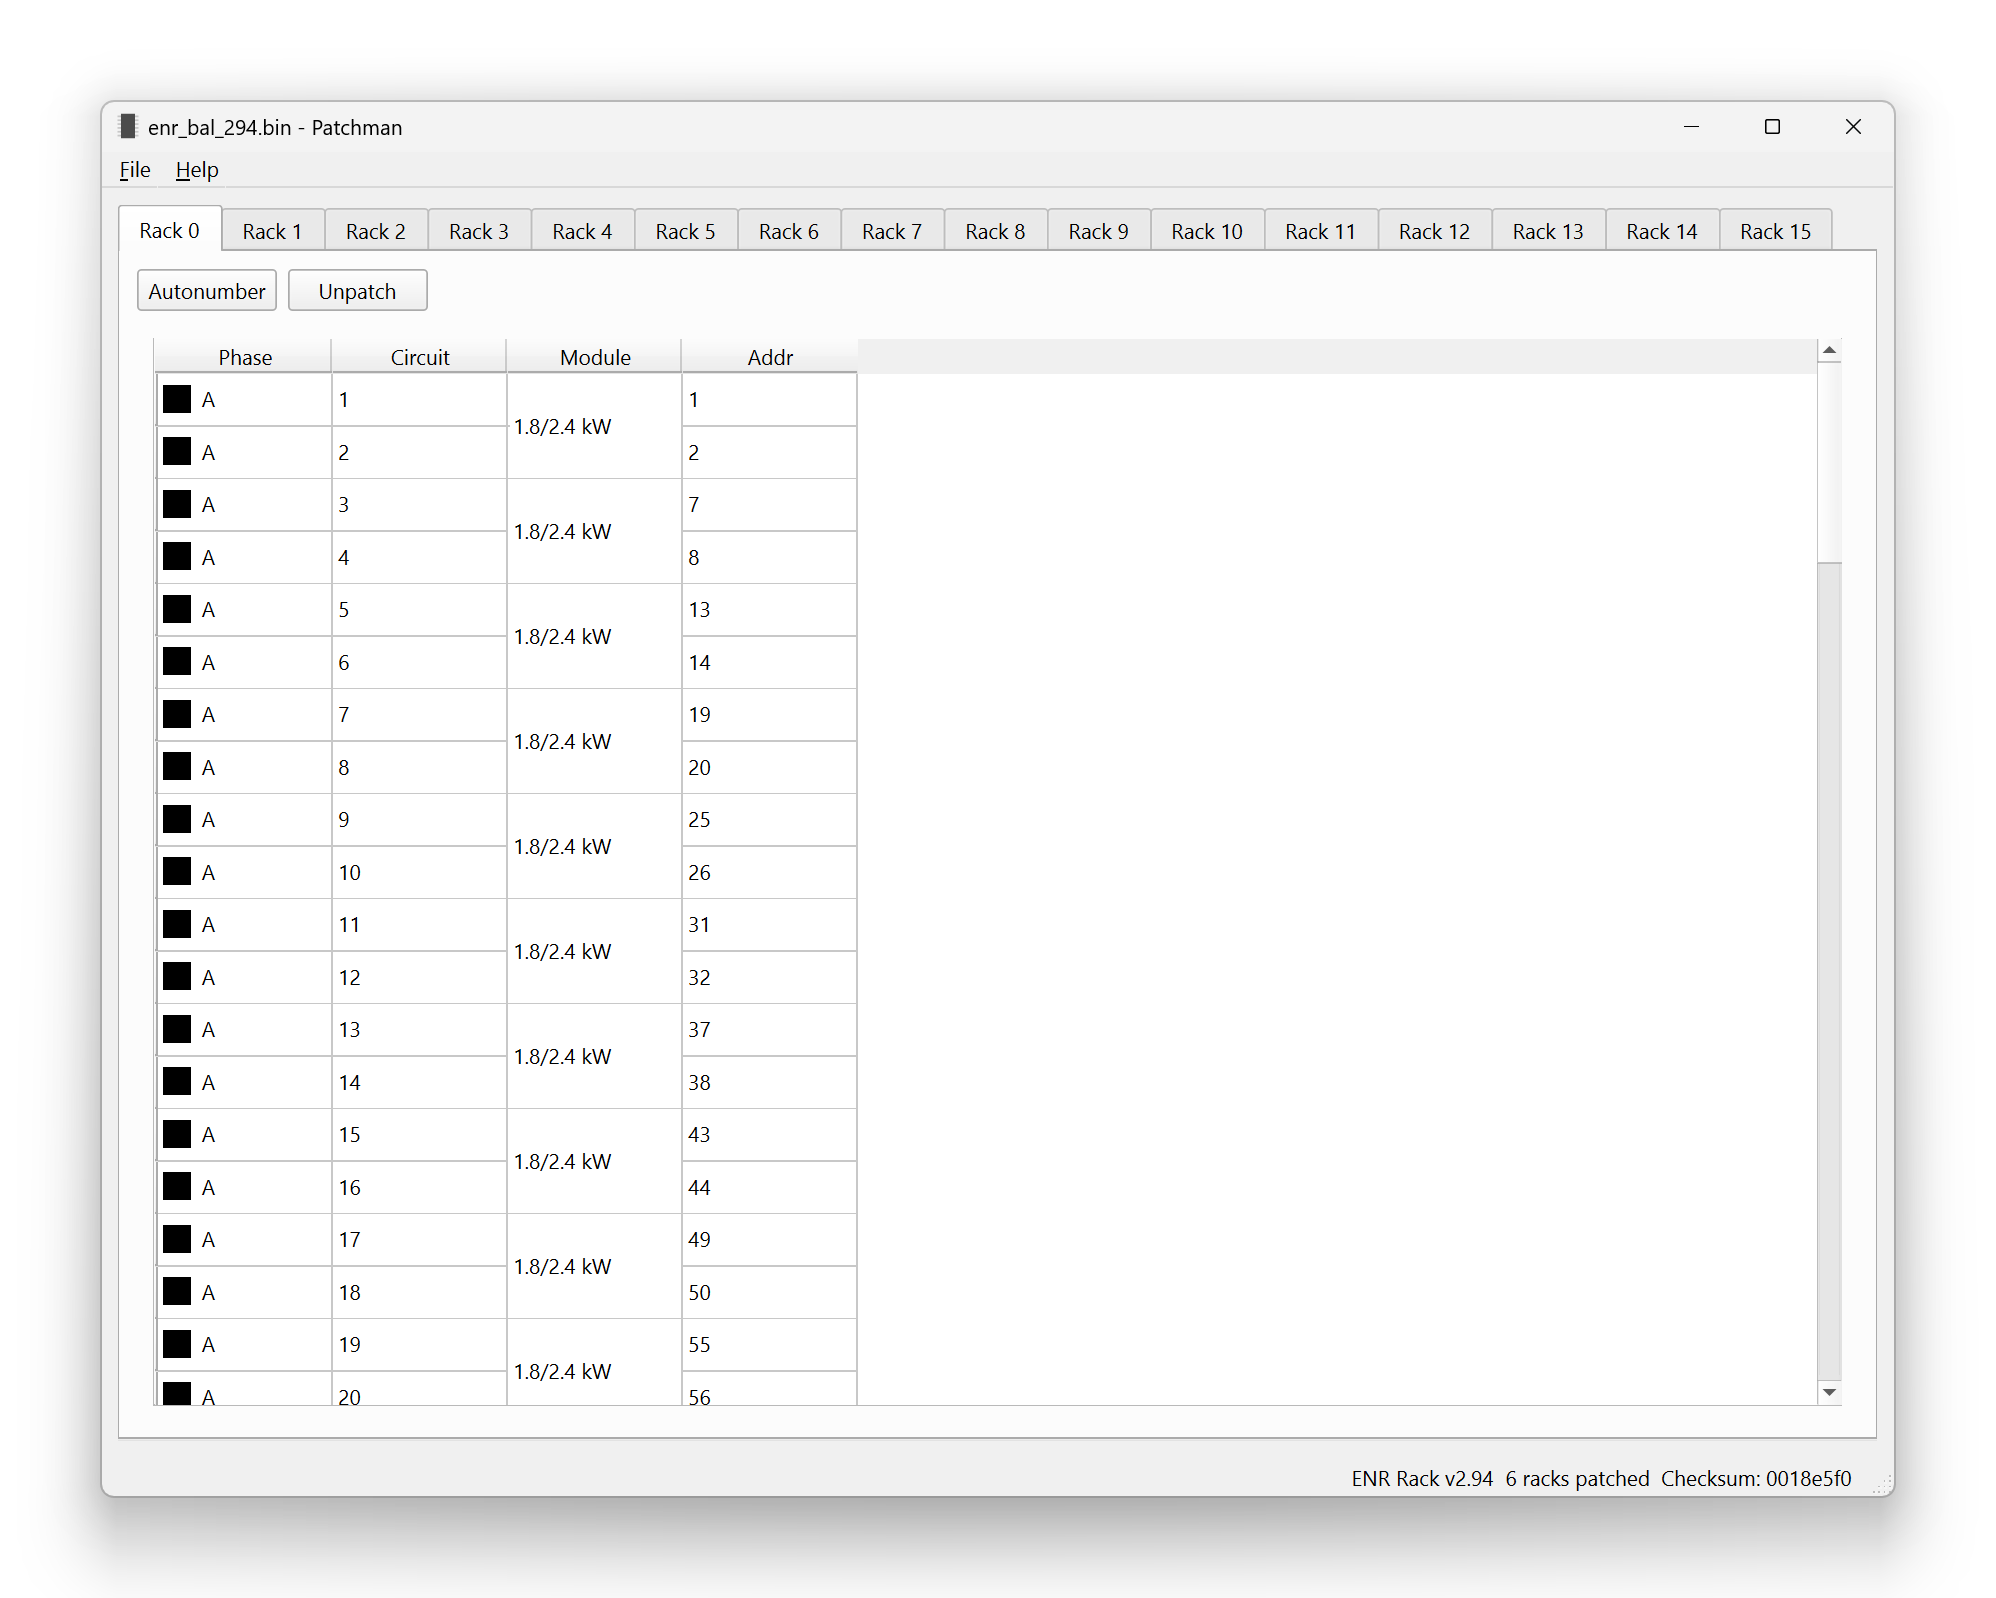
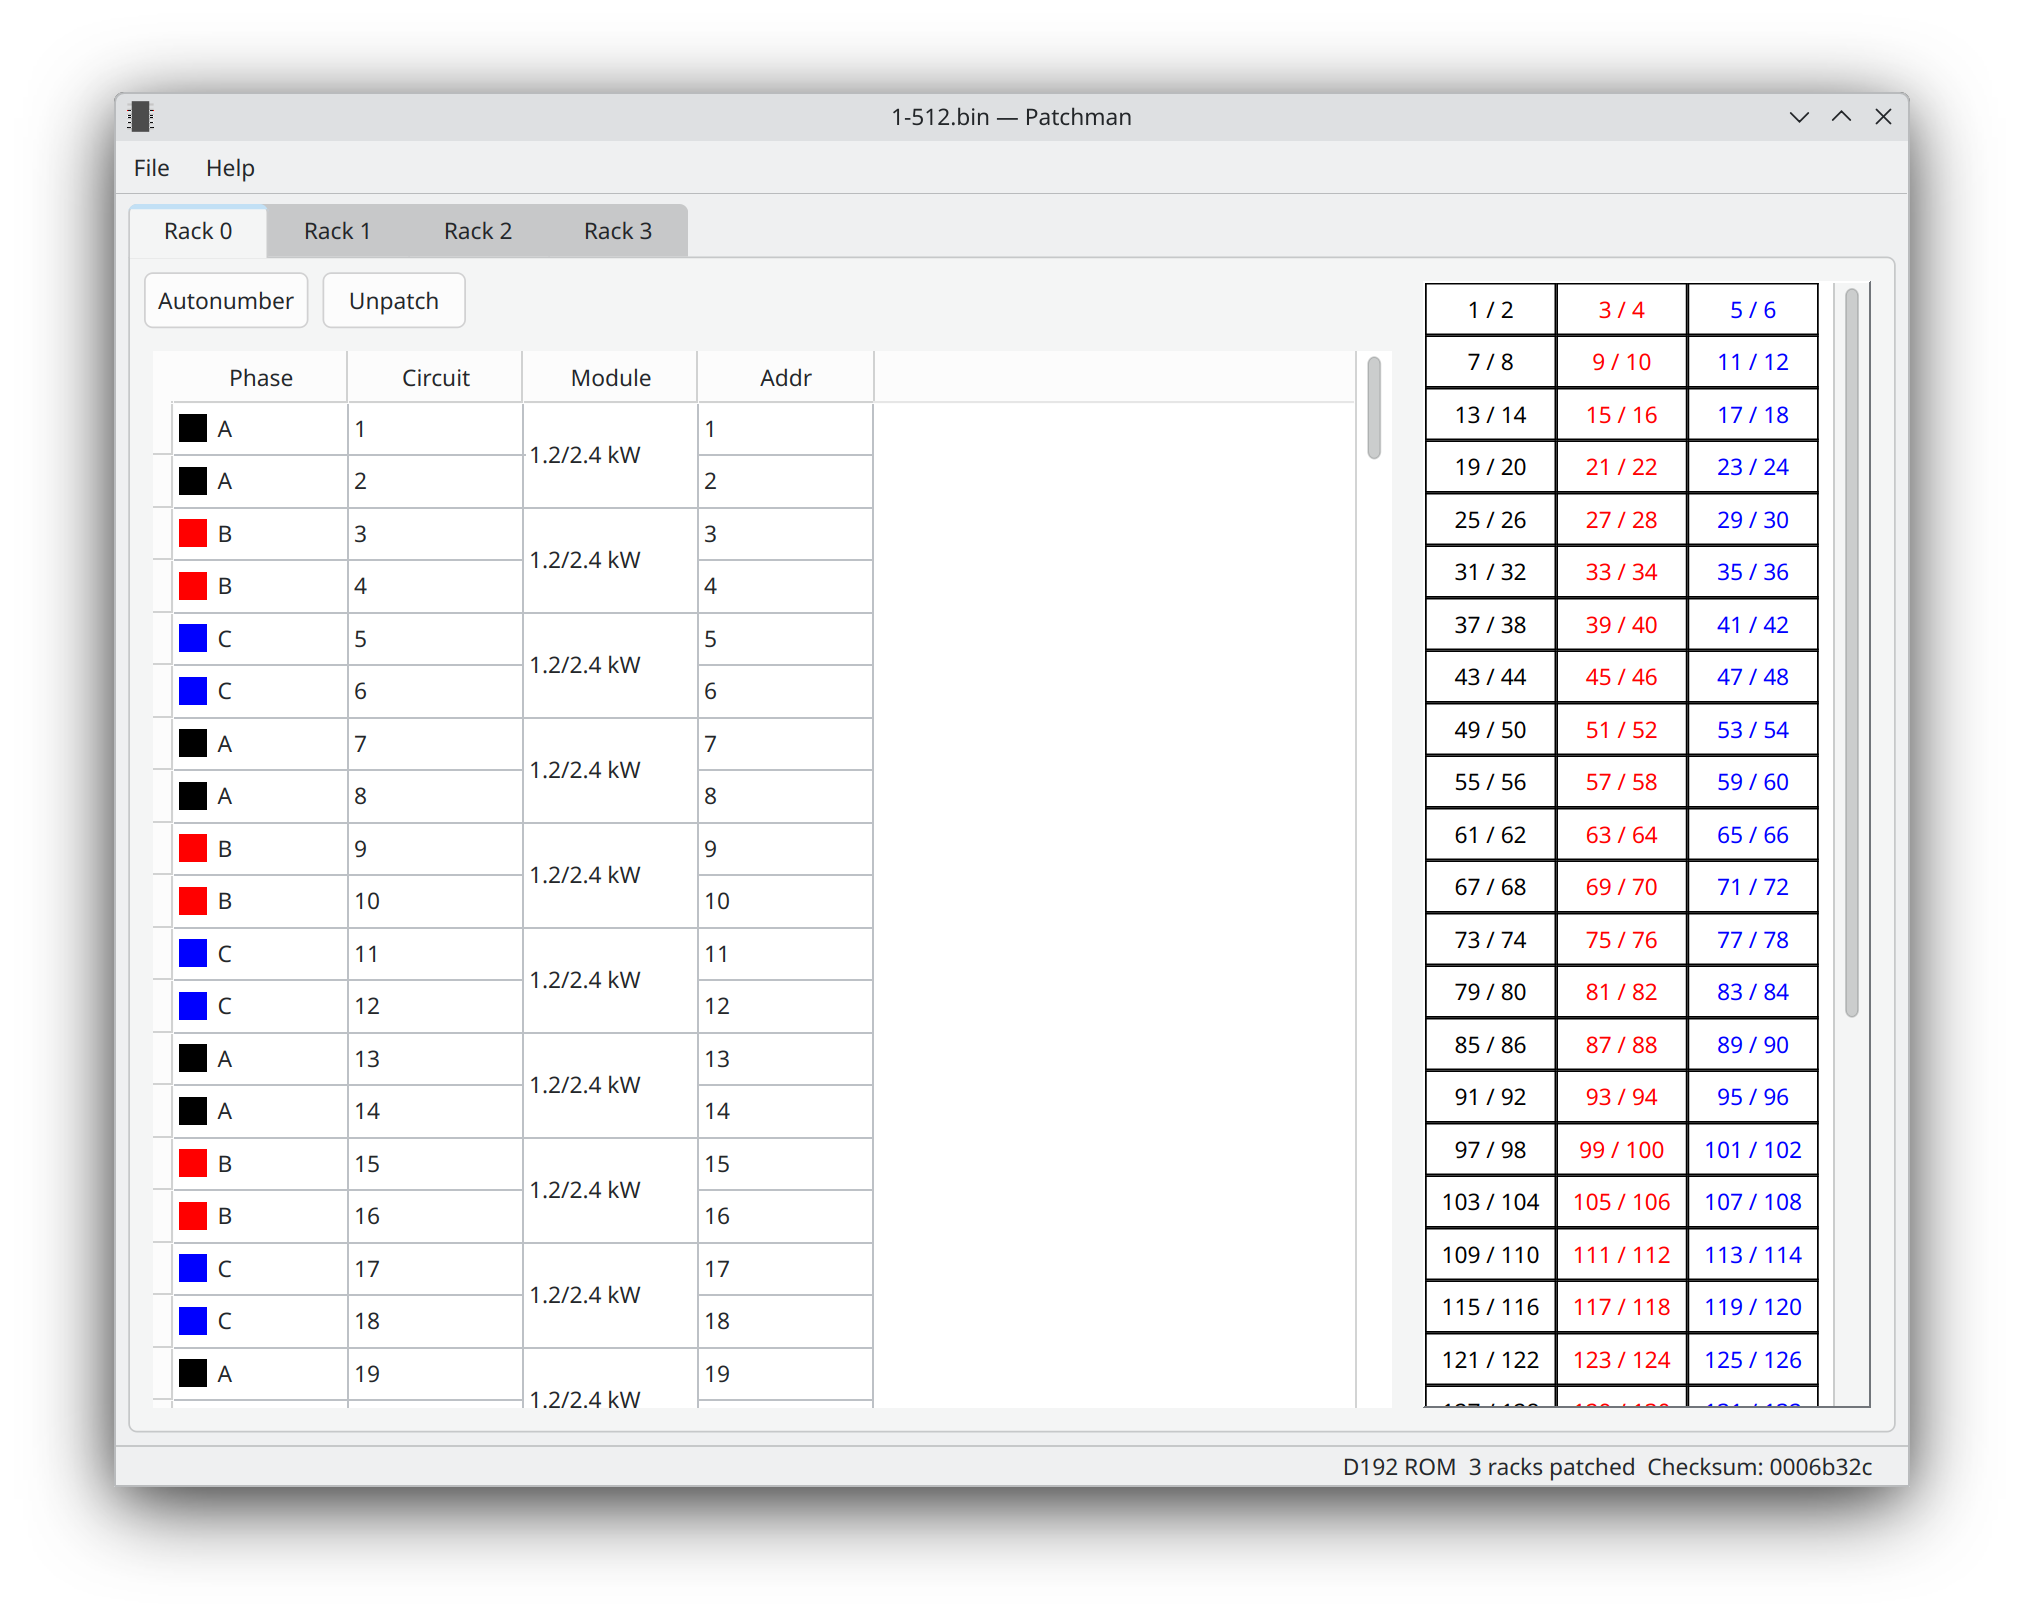
Update doc.

Changed region(s): [[0.0311, 0.0307, 0.9629, 0.9812], [0.6523, 0.2146, 0.6834, 0.276], [0.3727, 0.2146, 0.4038, 0.2453]]

diff --git a/doc/editor.rst b/doc/editor.rst
@@ -13,6 +13,13 @@ the addressing of individual circuits.
 Each rack available in the ROM is shown as a tab across the top. Each circuit's
 phase, circuit number, module type, and DMX address is shown in the table. Only
 the address is editable. Click on a column header to sort the table by that column.
+
+To the right of the table is a graphical preview of the selected rack's layout.
+Click on a slot to select those circuits in the table. Click and drag to select
+multiple circuits in a group. Click once, hold :kbd:`Shift`, then click again to
+select contiguous circuits. Hold :kbd:`Ctrl` and click to select multiple
+non-contiguous circuits.
+
 The status bar at the bottom of the window shows the ROM type, number of racks
 with patch information, and ROM checksum.
 
